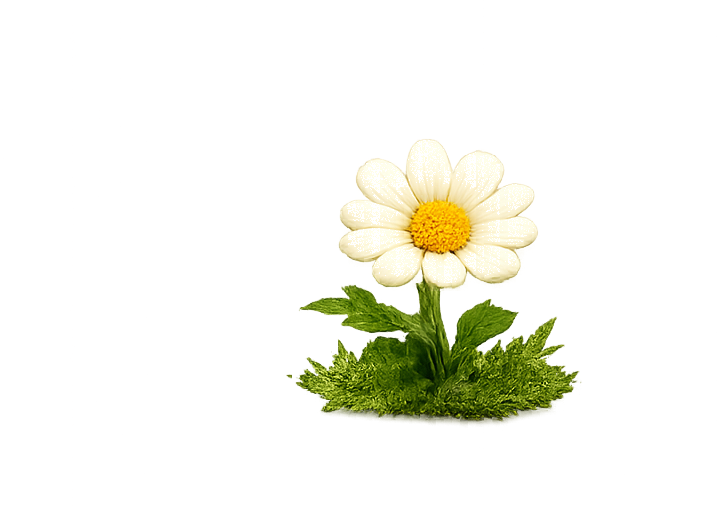
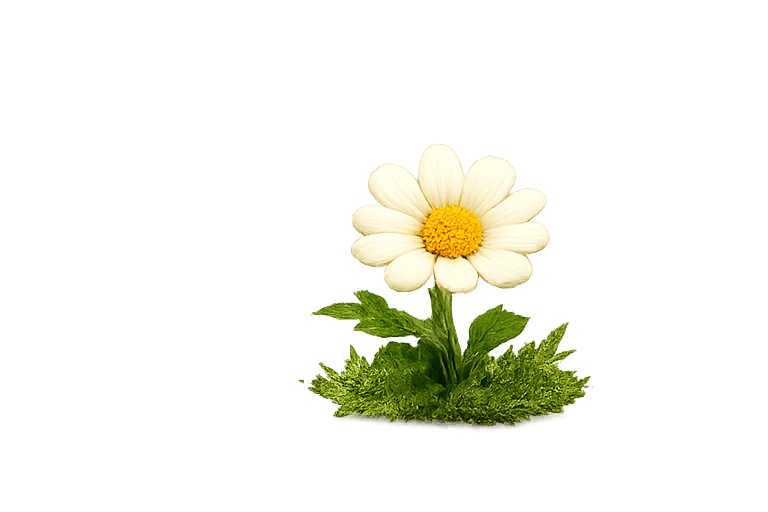
fix: CTA z-index structure and detail images
- Re-crop detail images keeping original background
- Move keyboard and details outside cta-container
- Add z-index to cta-container (10) for proper stacking
- Keyboard z-index: 1, Details z-index: 2, Container z-index: 10
- Increase detail sizes (120px, 80px, 140px, 160px)

🤖 Generated with [Claude Code](https://claude.com/claude-code)

Changed region(s): [[0.3989, 0.2668, 0.8285, 0.8597]]

diff --git a/src/components/CTA.tsx b/src/components/CTA.tsx
@@ -25,8 +25,19 @@ const CTA: React.FC = () => {
 
   return (
     <section className="cta-section" id="contact">
+      {/* Keyboard - below everything */}
+      <div className="cta-image">
+        <img src="/keyboard.png" alt="Keyboard" />
+      </div>
+
+      {/* Decorative details */}
+      <img src="/detail-1.png" alt="" className="cta-detail cta-detail-1" />
+      <img src="/detail-2.png" alt="" className="cta-detail cta-detail-2" />
+      <img src="/detail-3.png" alt="" className="cta-detail cta-detail-3" />
+      <img src="/detail-4.png" alt="" className="cta-detail cta-detail-4" />
+
+      {/* Main content - above everything */}
       <div className="cta-container">
-        {/* Text Content */}
         <ScrollReveal>
           <div className="cta-content">
             <h2 className="cta-title">{t('ctaTitle')}</h2>
@@ -88,16 +99,6 @@ const CTA: React.FC = () => {
             </button>
           </div>
         </ScrollReveal>
-
-        <div className="cta-image">
-          <img src="/keyboard.png" alt="Keyboard" />
-        </div>
-
-        {/* Decorative details */}
-        <img src="/detail-1.png" alt="" className="cta-detail cta-detail-1" />
-        <img src="/detail-2.png" alt="" className="cta-detail cta-detail-2" />
-        <img src="/detail-3.png" alt="" className="cta-detail cta-detail-3" />
-        <img src="/detail-4.png" alt="" className="cta-detail cta-detail-4" />
       </div>
     </section>
   );

diff --git a/src/components/CTA.css b/src/components/CTA.css
@@ -68,6 +68,8 @@
 }
 
 .cta-container {
+  position: relative;
+  z-index: 10;
   max-width: 1200px;
   margin: 0 auto;
   padding: 0 40px;
@@ -112,43 +114,38 @@
   width: 100%;
   max-width: 700px;
   pointer-events: none;
-  z-index: 0;
-}
-
-.cta-section .luma-button {
-  position: relative;
-  z-index: 20;
+  z-index: 1;
 }
 
 /* Decorative details */
 .cta-detail {
   position: absolute;
   pointer-events: none;
-  z-index: 5;
+  z-index: 2;
 }
 
 .cta-detail-1 {
-  width: 80px;
+  width: 120px;
   top: 20%;
-  left: 10%;
-}
-
-.cta-detail-2 {
-  width: 50px;
-  top: 15%;
-  right: 15%;
-}
-
-.cta-detail-3 {
-  width: 100px;
-  bottom: 25%;
   left: 8%;
 }
 
+.cta-detail-2 {
+  width: 80px;
+  top: 12%;
+  right: 12%;
+}
+
+.cta-detail-3 {
+  width: 140px;
+  bottom: 22%;
+  left: 6%;
+}
+
 .cta-detail-4 {
-  width: 120px;
-  bottom: 20%;
-  right: 10%;
+  width: 160px;
+  bottom: 18%;
+  right: 8%;
 }
 
 .cta-image img {
